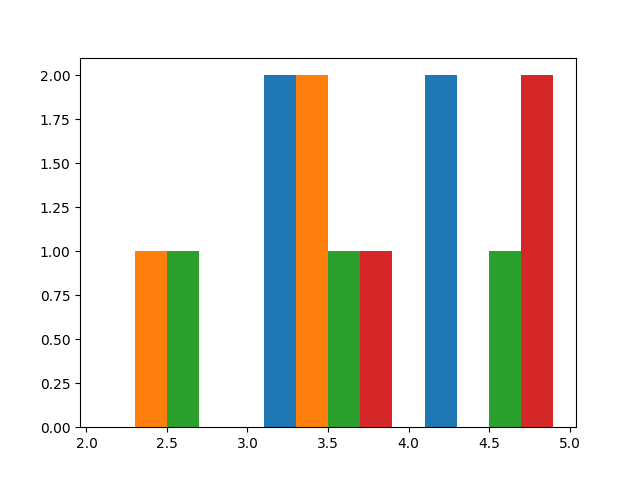
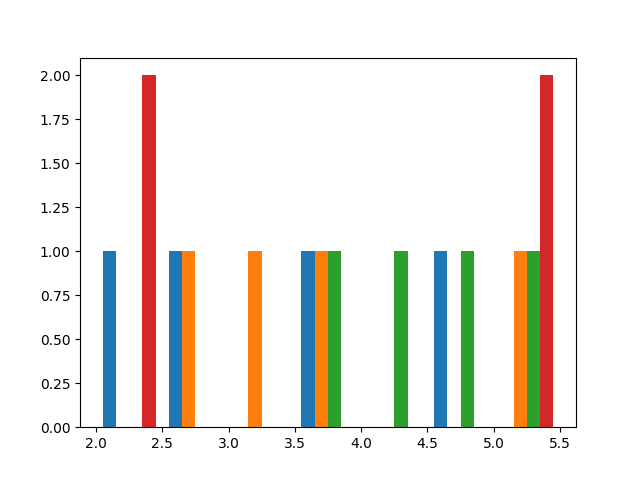
list 2 initial commit

Changed region(s): [[0.3438, 0.1562, 0.8438, 0.9375], [0.125, 0.1562, 0.3125, 0.9375], [0.8438, 0.9062, 0.9062, 0.9375]]

diff --git a/list2/ex1.py b/list2/ex1.py
@@ -1,0 +1,37 @@
+from random import randint
+import time
+
+
+def generateList(n):
+    list_ = []
+    for i in range (0, n):
+        list.append(randint(0, 1001))
+    return list_
+
+
+def bubbleSort(list_):
+    start = time.time()
+    for i in range(len(list_)):
+        for j in range(0, len(list_)-1):
+            if list_[j] > list_[j+1]:
+                temp = list_[j]
+                list_[j] = list_[j+1]
+                list_[j+1] = temp
+    end = time.time()
+    return list_, end - start
+        
+
+def ex1():
+    n = int(input('Z ilu liczb ma się składać lista?: '))
+    list_of_times = []
+    for i in range(0, 10):
+        list_ = generateList(n)
+        sorted_list, time_diff = bubbleSort(list_)
+        list_of_times.appen(time_diff)        
+
+
+
+if __name__ == '__main__':
+    L = generateList(10)
+    for element in L:
+        print(element)

diff --git a/list1/main.py b/list1/main.py
@@ -163,17 +163,21 @@ def zad2():
 if __name__ == '__main__':
     x = createMatrix(4,4)
     print(x)
-    # #Save histogram into file
-    # plt.hist(x, bins=[2, 2.5, 3, 3.5, 4, 4.5, 5, 5.5])
-    # plt.savefig('demo.png')
 
-    zad1_1(x)
-    spacer()
-    zad1_2(x)
-    spacer()
-    zad1_3(x)
-    spacer()
-    zad1_5(x)
-    spacer()
+    #Save histogram into file
+    plt.hist(x, bins=[2, 2.5, 3, 3.5, 4, 4.5, 5, 5.5])
+    plt.savefig('demo.png')
+
+    # zad1_1(x)
+    # spacer()
+    # zad1_2(x)
+    # spacer()
+    # zad1_3(x)
+    # spacer()
+    # zad1_5(x)
+    # spacer()
     zad2()
+    # spacer()
+    # for i in range(0, x.shape[0]):
+    #     print(np.histogram(x[i], bins=[2, 2.5, 3, 3.5, 4, 4.5, 5, 5.5]))
 

diff --git a/list1/zad4.py b/list1/zad4.py
@@ -15,11 +15,11 @@ def totalCost(receipts):
 		final_cost = products[order[2]][1] * order[3]
 		print(f'Klient id: {customer_id}, zapłacił: {final_cost}zł')
 
-receipts = np.array([(1, 1, 1, 4), (2, 2, 1, 3), (3, 3, 2, 2.5)],
+receipts = np.array([(1, 1, 1, 4), (2, 2, 5, 3), (3, 3, 3, 2.5)],
 	dtype=[('receipt_id', '<i4'), ('customer_id', '<i4'), ('product_id', '<i4'), ('product_quant', '<f4')])
 
 products = np.array([(1, 2.5, 'pieces'), (2, 5, 'kg')],
 	dtype=[('product_id', '<i4'), ('price', '<f4'), ('piece_or_kg', '<U32')])
 
 productExits(receipts, products)
-totalCost(receipts)
+# totalCost(receipts)
